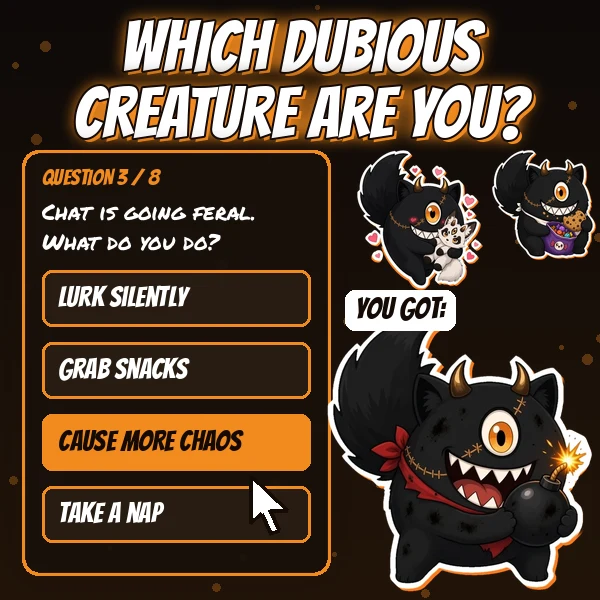
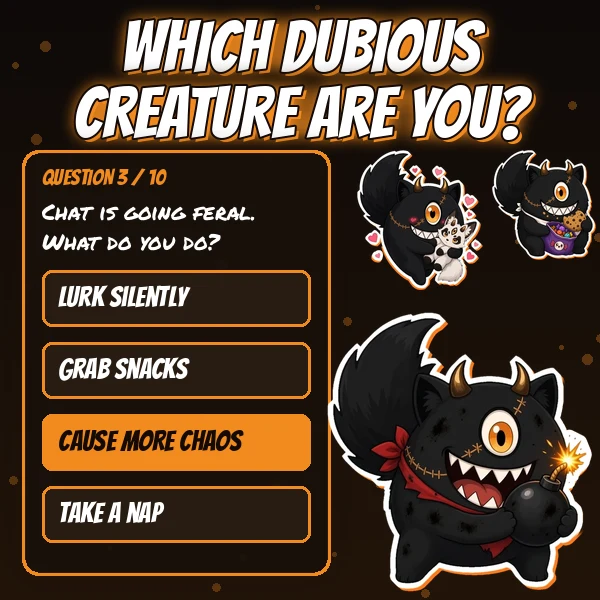
App cards: simplify 8 Ball, drop cursors and YOU GOT tag, quiz 3/10, alt text

Changed region(s): [[0.57, 0.48, 0.78, 0.57], [0.42, 0.81, 0.48, 0.9], [0.24, 0.27, 0.3, 0.33]]

diff --git a/apps.html b/apps.html
@@ -77,15 +77,18 @@ details.note summary{cursor:pointer;font-weight:700;color:var(--o)}details.note 
 <li>If Defender quarantines it: <b>Windows Security</b> &gt; Virus &amp; threat protection &gt; <b>Protection history</b> &gt; select the item &gt; Actions &gt; <b>Allow on device</b>. Optional: Manage settings &gt; Exclusions &gt; Add an exclusion &gt; Folder &gt; pick the RogerPet folder.</li>
 </ol></details>
 <details class="note"><summary>Mac blocked it?</summary><p>Mac builds are unsigned and untested, so macOS may say "Malware Blocked" or that the app is damaged.</p><ol><li>Unzip the download.</li><li><b>Apple Silicon:</b> open Terminal in that folder and run <code>xattr -dr com.apple.quarantine RogerPet.app</code></li><li>Then run <code>codesign --force --deep --sign - RogerPet.app</code> and open him.</li><li><b>Intel:</b> right-click the app &gt; <b>Open</b> &gt; <b>Open</b>.</li></ol></details><p class="fn">* Roger isn't signed by Apple or Microsoft, so your computer may flag him as a threat (on Mac: "Malware Blocked"). He's safe, just unsigned. All the code is on GitHub and inspectable in the package. <a href="https://github.com/kitsuranines/pet-roger" target="_blank" rel="noopener" style="color:var(--o);text-decoration:underline">Code Here</a></p></div></article>
-<article class="app"><div class="pic"><img src="img/app-8ball.webp?v=3" alt="Nines grinning and holding a glowing Magic 8 Ball"></div>
+<article class="app"><div class="pic"><img src="img/app-8ball.webp?v=4" alt="Magic 8 Ball: Nines winking and holding her black Magic 8 Ball on a dark orange-glow background"></div>
 <div><h3>Magic 8 Ball</h3><p>A magic 8 ball shaken by Nines. Ask the fox a question and she'll shake out your answer.</p>
 <a class="btn o" href="8ball/">&#9654; Open</a><p class="note">Runs in your browser, on phone or desktop.</p></div></article>
-<article class="app"><div class="pic"><img src="img/app-pet.webp?v=3" alt="Nines and Roger being petted, surrounded by orange hearts" loading="lazy"></div>
+<article class="app"><div class="pic"><img src="img/app-pet.webp?v=4" alt="Pet the Fox: Nines and Roger side by side in glowing panels with their pet counters and orange hearts" loading="lazy"></div>
 <div><h3>Pet the Fox</h3><p>Pet Nines and Roger. She loves it and will never admit it. He hates it. Every pet from everyone adds to their global counters.</p>
 <a class="btn o" href="pet/">&#9654; Open</a><p class="note">Runs in your browser, on phone or desktop.</p></div></article>
-<article class="app"><div class="pic"><img src="img/app-creature.webp?v=3" alt="Five dubious creatures: Lurker, Snack, Chaos, Sleepy and Hype" loading="lazy"></div>
+<article class="app"><div class="pic"><img src="img/app-creature.webp?v=4" alt="Which Dubious Creature Are You? A quiz question card with answer buttons next to Roger Simp, Snack and Chaos" loading="lazy"></div>
 <div><h3>Which Dubious Creature Are You?</h3><p>Ten questions to find out which dubious creature you are. Lurker, Snack, Backseat, Roger Simp... chaos reigns. Share your result on X.</p>
 <a class="btn o" href="creature/">&#9654; Open</a><p class="note">Runs in your browser, on phone or desktop.</p></div></article>
+<article class="app"><div class="pic"><img src="img/app-whack.webp?v=1" alt="Whack-a-Creature: Lurker, Chaos and a golden Snack popping out of holes" loading="lazy"></div>
+<div><h3>Whack-a-Creature</h3><p>Bonk the dubious creatures as they pop up and build your streak. Golden ones are worth +3. Bonk Roger and it's over. Get on the global top 10.</p>
+<a class="btn o" href="whack/">&#9654; Open</a><p class="note">Runs in your browser, on phone or desktop.</p></div></article>
 </div></section>
 <section id="friends"><h2>Apps made by friends</h2><div class="apps">
 <article class="app"><div class="pic"><img src="img/friends/lythria.webp?v=1" alt="Lythria's Completely Evil Adventure title art" loading="lazy"></div>
